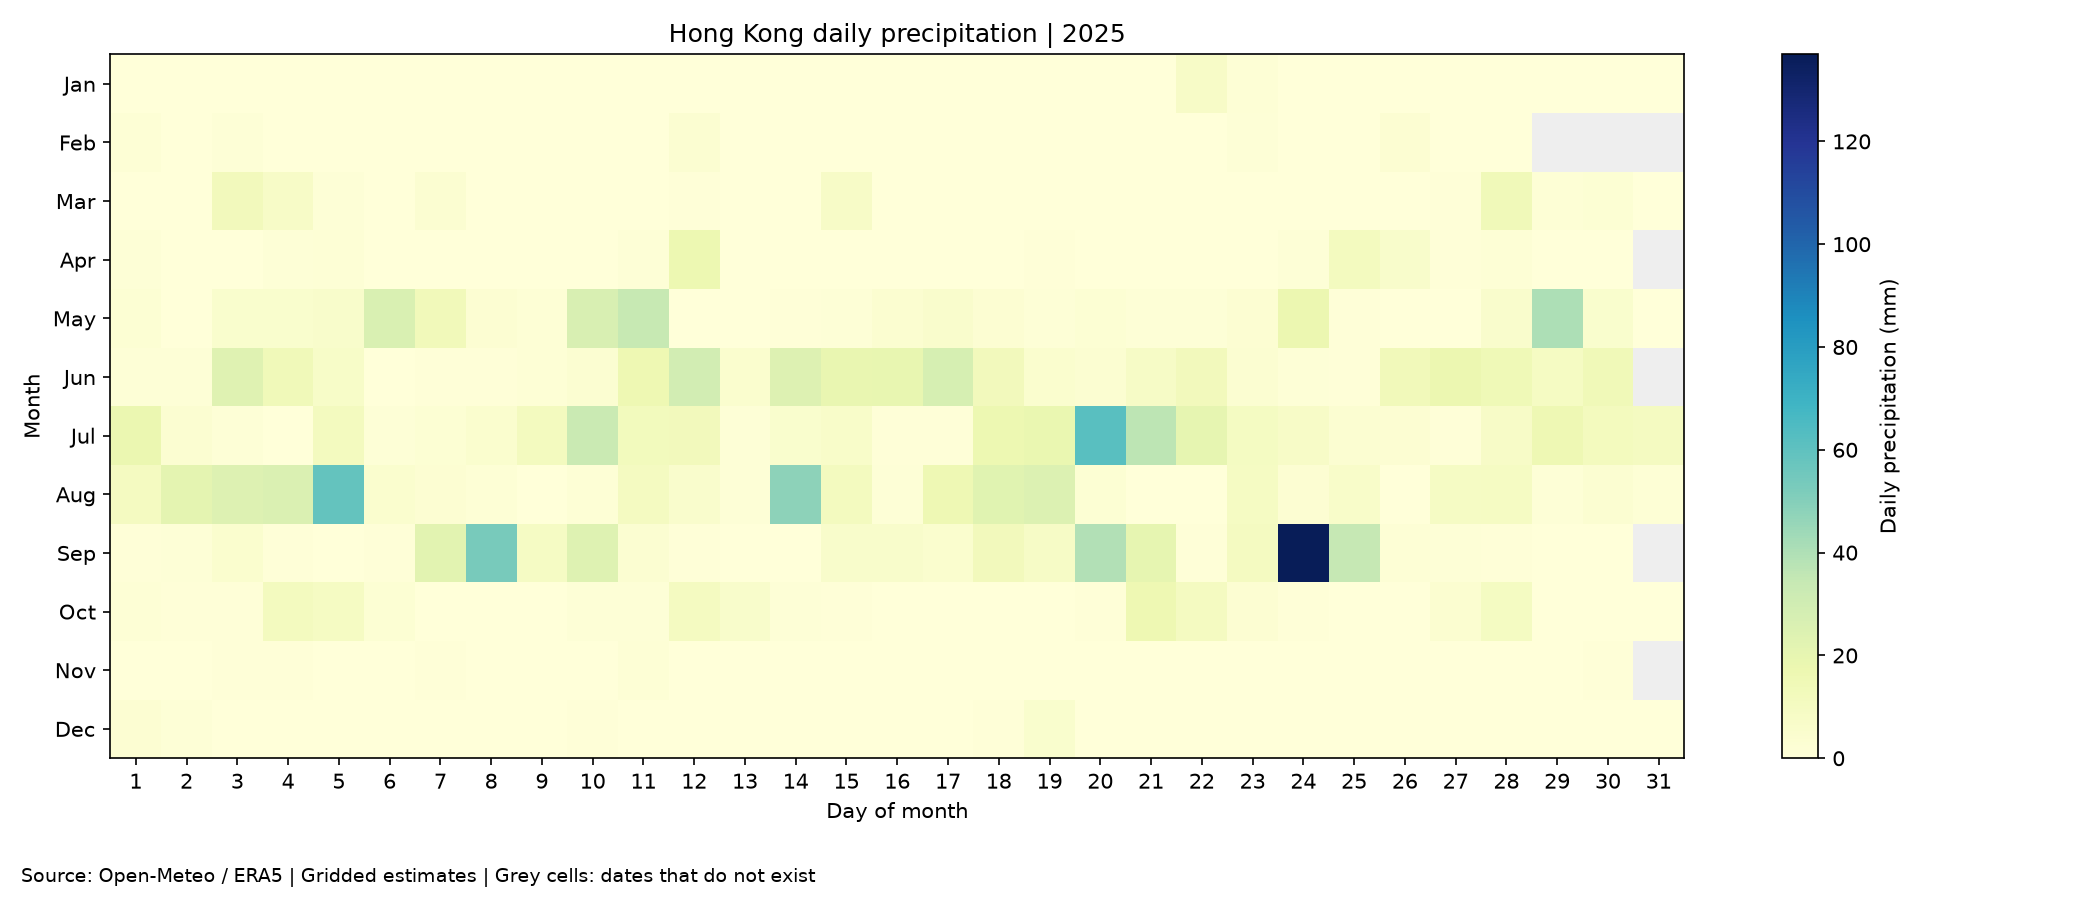
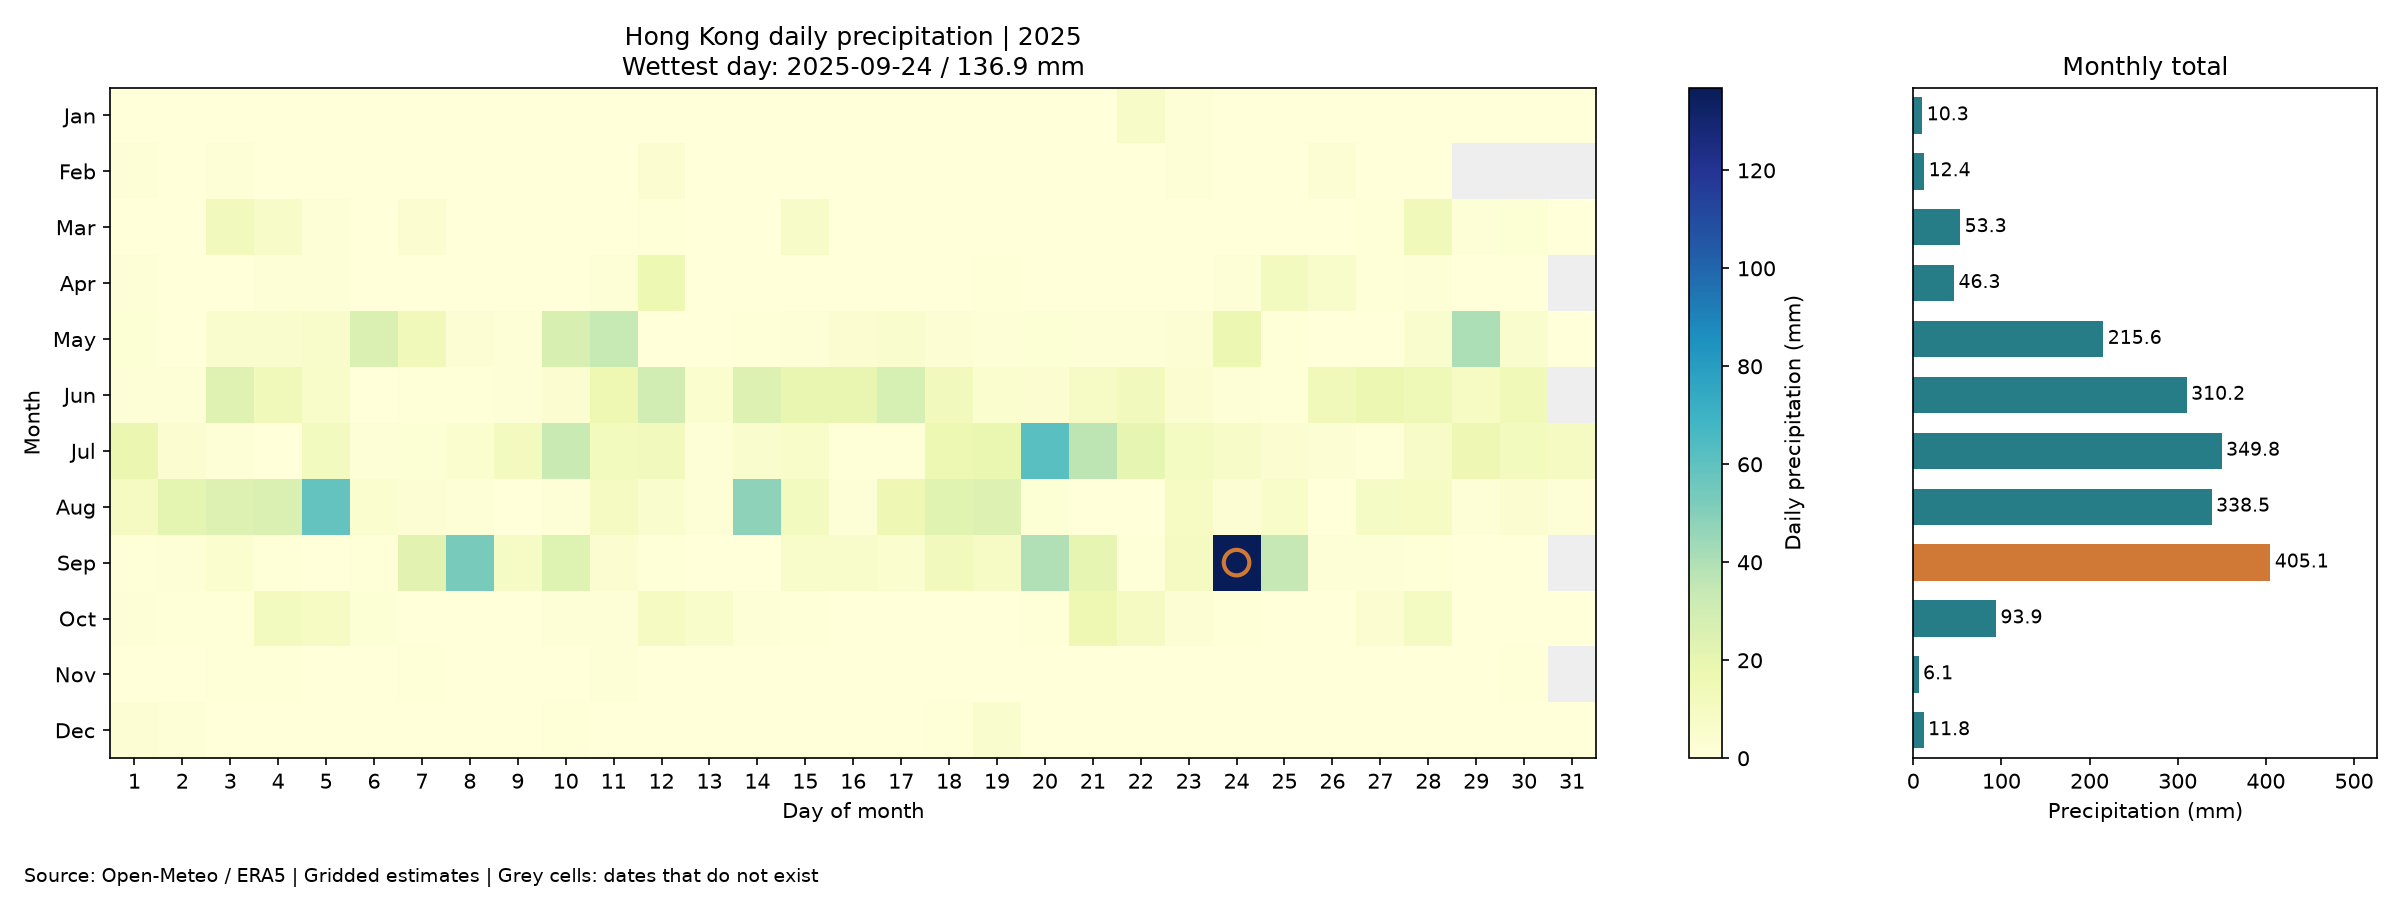
Draw precipitation calendar and monthly totals

diff --git a/plot.py b/plot.py
@@ -71,7 +71,7 @@ def main():
         print(f"{month:02}: {total:.1f} mm")
 
     # 用颜色显示每个格子的数值
-        fig, (ax, bars) = plt.subplots(
+    fig, (ax, bars) = plt.subplots(
         1, 2,
         figsize=(16, 6),
         gridspec_kw={"width_ratios": [4, 1]},
@@ -100,6 +100,23 @@ def main():
     ax.set_xlabel("Day of month")
     ax.set_ylabel("Month")
     ax.set_title("Hong Kong daily precipitation | 2025")
+        # 找到降水量最大的一条记录
+    peak_day, peak_amount = max(table, key=lambda row: row[1])
+    peak_date = date.fromisoformat(peak_day)
+
+    ax.scatter(
+        peak_date.day - 1,
+        peak_date.month - 1,
+        s=150,
+        facecolors="none",
+        edgecolors="#d07836",
+        linewidths=2,
+    )
+
+    ax.set_title(
+        "Hong Kong daily precipitation | 2025\n"
+        f"Wettest day: {peak_day} / {peak_amount:.1f} mm"
+    )
 
     # 找出降水最多的月份，用橙色突出显示
     wettest = monthly.index(max(monthly))
